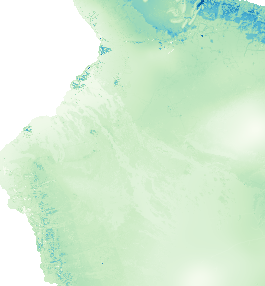
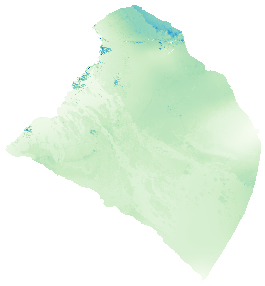
Reproject + mask rasters to NKSK boundary; cache-bust data loads

diff --git a/index.html b/index.html
@@ -252,6 +252,7 @@ input[type=range]{width:100%;accent-color:var(--accent);height:20px;cursor:point
 // Static map context (small, not a notebook product). Real data loads in boot().
 const DB={"nksk":[[20.3,-155.34],[20.28,-155.9],[19.6,-156.12],[19.58,-155.34],[20.3,-155.34]],"towns":[["Kawaihae",20.033,-155.829],["Waimea",20.02,-155.668],["Waikoloa Village",19.938,-155.789],["Kailua-Kona",19.639,-155.997],["Hawi",20.241,-155.833]]};
 let SEG=[], GRIDS_META={}, MOISTURE=null, NKSK_BND=null, SPDB={};
+const DV='?v=3';  // bump on each data redeploy to bust browser/CDN cache
 const INFL=1.332,DISC=0.02,CREW_RATE=45,TRUCK_GAL=6000;
 const PV1=[1,2,3].reduce((s,t)=>s+1/Math.pow(1+DISC,t),0);
 const WATER_C=0.0076,TRUCK_C=250/6000,CWD_MIN=651,CWD_MAX=5608;
@@ -357,7 +358,7 @@ function drawOverlay(){
   }
   const g=GRIDS_META[state.overlay];if(!g)return;
   const[s,w,n,e]=g.bounds;
-  ovLayer=L.imageOverlay('data/grids/'+state.overlay+'.png',[[s,w],[n,e]],{opacity:state.opacity,interactive:false}).addTo(map);
+  ovLayer=L.imageOverlay('data/grids/'+state.overlay+'.png'+DV,[[s,w],[n,e]],{opacity:state.opacity,interactive:false}).addTo(map);
   ovLayer.bringToBack();
   document.getElementById('ovmin').textContent=fmtOv(g.min);document.getElementById('ovmax').textContent=fmtOv(g.max);
 }
@@ -519,15 +520,15 @@ $('export').addEventListener('click',()=>{
   a.href=u;a.download='nksk_fuelbreak_plan_choice'+state.choice+'.csv';a.click();URL.revokeObjectURL(u);});
 async function boot(){
   try{
-    const gj=await (await fetch('data/segments.geojson')).json();
+    const gj=await (await fetch('data/segments.geojson'+DV)).json();
     SEG=gj.features.map((f,i)=>{const c=f.geometry.coordinates,p=f.properties;return{
       id:p.id??i,road:p.road,elev:p.elev,length_m:p.length_m,cwd_mm:p.cwd_mm,excl:p.excl?1:0,
       a:p.a||[c[0][1],c[0][0]],b:p.b||[c[c.length-1][1],c[c.length-1][0]],
       line:c.map(x=>[x[1],x[0]]),sp:p.sp||null};});
-    try{SPDB=await (await fetch('data/species_costs.json')).json();}catch(e){}
-    for(const k of ['cwd','elev','pet','aet']){try{GRIDS_META[k]=await (await fetch('data/grids/'+k+'.json')).json();}catch(e){}}
-    try{MOISTURE=await (await fetch('data/moisture_zones.geojson')).json();}catch(e){}
-    try{NKSK_BND=await (await fetch('data/nksk_boundary.geojson')).json();}catch(e){}
+    try{SPDB=await (await fetch('data/species_costs.json'+DV)).json();}catch(e){}
+    for(const k of ['cwd','elev','pet','aet']){try{GRIDS_META[k]=await (await fetch('data/grids/'+k+'.json'+DV)).json();}catch(e){}}
+    try{MOISTURE=await (await fetch('data/moisture_zones.geojson'+DV)).json();}catch(e){}
+    try{NKSK_BND=await (await fetch('data/nksk_boundary.geojson'+DV)).json();}catch(e){}
   }catch(err){
     document.getElementById('map').innerHTML='<div style="padding:24px;font-family:sans-serif;color:#a6402e">Could not load data/. Serve this folder over http (e.g. <code>python -m http.server</code>) rather than opening the file directly.</div>';
     console.error(err);return;

diff --git a/export_web_data.py b/export_web_data.py
@@ -16,6 +16,10 @@ import rasterio
 from rasterio.windows import from_bounds, intersection, Window
 from rasterio.transform import array_bounds
 from rasterio.warp import transform_bounds
+from rasterio.vrt import WarpedVRT
+from rasterio.enums import Resampling
+from rasterio.features import geometry_mask
+from affine import Affine
 import matplotlib.pyplot as plt
 
 warnings.filterwarnings("ignore")
@@ -150,36 +154,34 @@ print(f"species_costs.json: {len(SPECIES)} species  "
       f"(missing cost -> default ${DEFAULT_COST:.0f}: "
       f"{sorted(nm for nm in _used if _norm(nm) not in SPCOST)})")
 
-# ------------------------------------------------------------ 2. MOISTURE ZONES
-mz = gpd.read_file(src("inputs", "Moisture_Zones", "Moisture_Zones.shp")).to_crs(4326)
-zone_col = "moisturezo" if "moisturezo" in mz.columns else "zone"
-# clip to a padded segment bbox so we only ship the relevant polygons
-minx, miny, maxx, maxy = seg.total_bounds
-pad = 0.06
-mz = mz.clip((minx - pad, miny - pad, maxx + pad, maxy + pad))
-mz["geometry"] = mz.geometry.simplify(0.0002, preserve_topology=True)
-mz = mz[[zone_col, "geometry"]].rename(columns={zone_col: "zone"})
-mz = mz[~mz.geometry.is_empty & mz.geometry.notna()]
-# serialize with json (GDAL can't overwrite files on some mounted filesystems)
+# ------------------------------------------------------------- 2. NKSK BOUNDARY
 from shapely.geometry import mapping
 def _round_geom(g, nd=5):
     return json.loads(json.dumps(mapping(g)),
                       parse_float=lambda x: round(float(x), nd))
+bnd = gpd.read_file(src("inputs", "NKSK-boundaries", "nksk.shp")).to_crs(4326)
+bnd_full = bnd.geometry.union_all()                              # exact, for masking
+bnd_geom = bnd.geometry.simplify(0.0003, preserve_topology=True).union_all()  # for display
+json.dump({"type": "FeatureCollection",
+           "features": [{"type": "Feature", "properties": {"name": "NKSK"},
+                         "geometry": _round_geom(bnd_geom)}]},
+          open(out("nksk_boundary.geojson"), "w"))
+print("nksk_boundary.geojson: 1 polygon")
+
+# ------------------------------------------------------------ 3. MOISTURE ZONES
+mz = gpd.read_file(src("inputs", "Moisture_Zones", "Moisture_Zones.shp")).to_crs(4326)
+zone_col = "moisturezo" if "moisturezo" in mz.columns else "zone"
+# clip to the actual NKSK boundary polygon so the layer fills the boundary shape
+mz = mz.clip(bnd_full)
+mz["geometry"] = mz.geometry.simplify(0.0002, preserve_topology=True)
+mz = mz[[zone_col, "geometry"]].rename(columns={zone_col: "zone"})
+mz = mz[~mz.geometry.is_empty & mz.geometry.notna()]
 mz_feats = [{"type": "Feature", "properties": {"zone": row["zone"]},
              "geometry": _round_geom(row["geometry"])}
             for _, row in mz.iterrows()]
 json.dump({"type": "FeatureCollection", "features": mz_feats},
           open(out("moisture_zones.geojson"), "w"))
 print(f"moisture_zones.geojson: {len(mz_feats)} polygons, zones={sorted(mz['zone'].dropna().unique())}")
-
-# ------------------------------------------------------------- 2b. NKSK BOUNDARY
-bnd = gpd.read_file(src("inputs", "NKSK-boundaries", "nksk.shp")).to_crs(4326)
-bnd_geom = bnd.geometry.simplify(0.0003, preserve_topology=True).union_all()
-json.dump({"type": "FeatureCollection",
-           "features": [{"type": "Feature", "properties": {"name": "NKSK"},
-                         "geometry": _round_geom(bnd_geom)}]},
-          open(out("nksk_boundary.geojson"), "w"))
-print("nksk_boundary.geojson: 1 polygon")
 
 # ------------------------------------------------------------------ 3. RASTERS
 # clip window (lon/lat) = the NKSK boundary bbox (padded), so every overlay
@@ -190,33 +192,28 @@ CLIP = (bminx - 0.01, bminy - 0.01, bmaxx + 0.01, bmaxy + 0.01)  # (W,S,E,N)
 MAXDIM = 1100
 
 def export_raster(path, name, cmap):
-    with rasterio.open(path) as s:
-        w, sth, e, n = CLIP
-        # clip bbox -> source CRS
-        if s.crs.to_epsg() != 4326:
-            l, b, rr, t = transform_bounds("EPSG:4326", s.crs, w, sth, e, n)
-        else:
-            l, b, rr, t = w, sth, e, n
-        win = from_bounds(l, b, rr, t, s.transform)
-        # clamp the window to the dataset so the PNG bounds match the ACTUAL data
-        # extent (otherwise a window that overhangs the raster shifts the overlay)
-        win = intersection(win, Window(0, 0, s.width, s.height)).round_offsets().round_lengths()
-        # decimate so the longest side <= MAXDIM
-        sc = max(win.width / MAXDIM, win.height / MAXDIM, 1)
-        oh, ow = max(1, int(win.height / sc)), max(1, int(win.width / sc))
-        arr = s.read(1, window=win, out_shape=(oh, ow),
-                     resampling=rasterio.enums.Resampling.average).astype("float64")
-        wt = s.window_transform(win)
-        wb = array_bounds(win.height, win.width, wt)  # (left,bottom,right,top) in src CRS
-        src_crs, nod = s.crs, s.nodata
+    w, sth, e, n = CLIP
+    with rasterio.open(path) as ds:
+        # reproject every raster to EPSG:4326 so its pixel grid is geographic
+        # north-up (fixes UTM rasters like the DEM that were rotated on the map)
+        with WarpedVRT(ds, crs="EPSG:4326", resampling=Resampling.bilinear) as vrt:
+            win = from_bounds(w, sth, e, n, vrt.transform)
+            win = intersection(win, Window(0, 0, vrt.width, vrt.height)).round_offsets().round_lengths()
+            scd = max(win.width / MAXDIM, win.height / MAXDIM, 1)
+            oh, ow = max(1, int(win.height / scd)), max(1, int(win.width / scd))
+            arr = vrt.read(1, window=win, out_shape=(oh, ow),
+                           resampling=Resampling.average).astype("float64")
+            wt = vrt.window_transform(win)
+            out_transform = wt * Affine.scale(win.width / ow, win.height / oh)  # decimated grid
+            nod = vrt.nodata
     if nod is not None:
         arr[arr == nod] = np.nan
     arr[arr < -1e30] = np.nan
-    # reproject bounds to lon/lat -> (W,S,E,N)
-    if src_crs.to_epsg() != 4326:
-        W, S, E, N = transform_bounds(src_crs, "EPSG:4326", *wb)
-    else:
-        W, S, E, N = wb
+    # mask everything outside the NKSK boundary -> transparent (aligns to boundary)
+    outside = geometry_mask([mapping(bnd_full)], out_shape=(oh, ow),
+                            transform=out_transform, invert=False)
+    arr[outside] = np.nan
+    W, S, E, N = array_bounds(oh, ow, out_transform)  # already lon/lat
     vmin, vmax = float(np.nanmin(arr)), float(np.nanmax(arr))
     norm = plt.Normalize(vmin, vmax)
     rgba = plt.get_cmap(cmap)(norm(arr))
